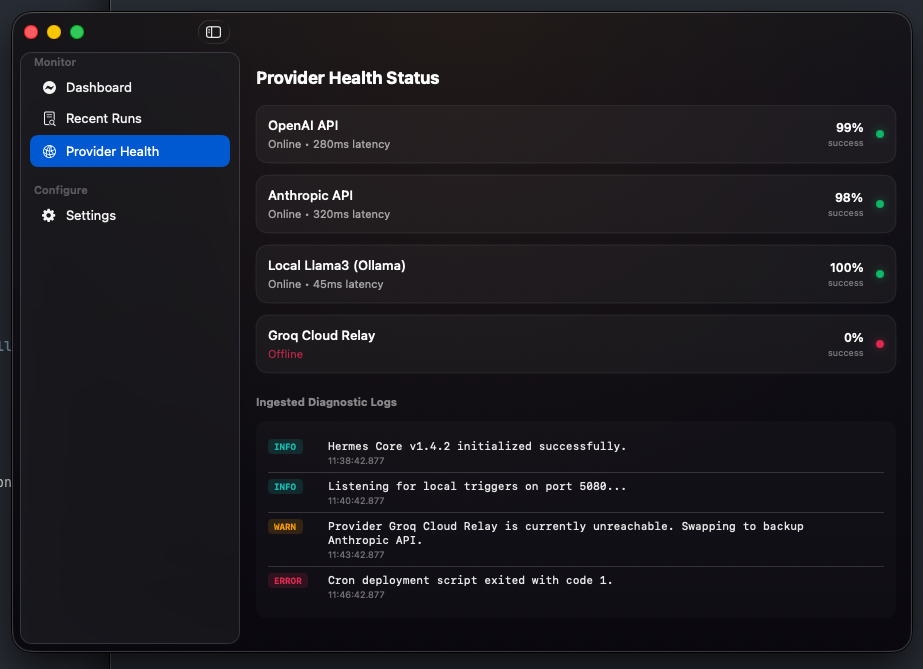
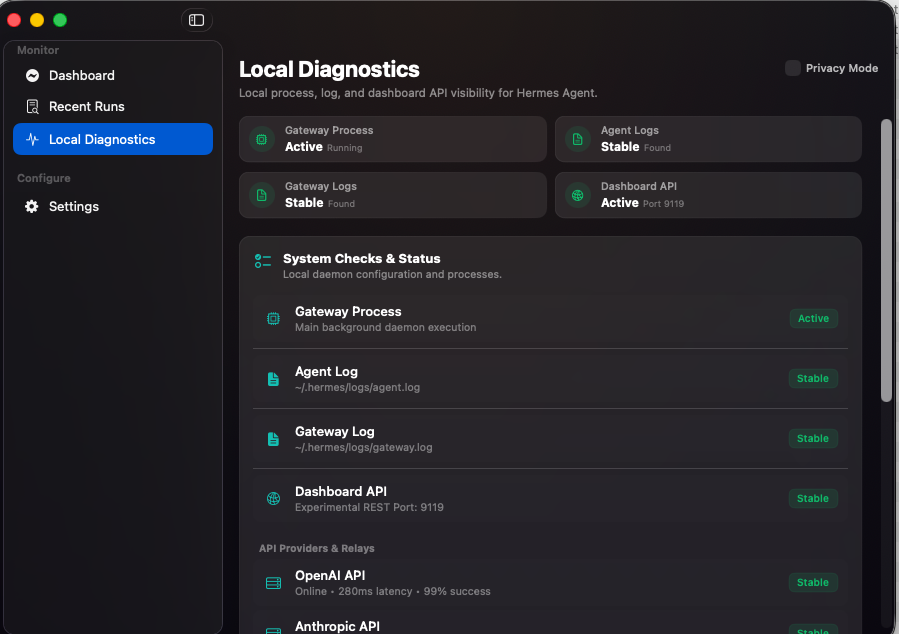
chore: verify diagnostics polish and smoke checks

diff --git a/docs/visual-parity.md b/docs/visual-parity.md
@@ -166,3 +166,12 @@ These should be used to guide the next visual polish batch before replacing READ
 *   **Offline Telemetry Fallbacks:** In Mock Mode, since `HermesStatus` lacks system daemon values, we automatically fallback to active states to ensure mock representations look fully alive and functional.
 *   **Manual Screen Capturing:** To complete visual check-pointing, actual runtime screenshots of this updated screen should be manually recaptured and compared.
 
+---
+
+## Batch 2 Runtime Screenshot Captured (June 2, 2026)
+Following the implementation of the Batch 2 Diagnostics UI Polish, a fresh actual runtime screenshot of the **Local Diagnostics** dashboard has been captured and saved to:
+[runtime-local-diagnostics.png](file:///Users/dnguyen/Documents/Projects/solaris/docs/screenshots/runtime-local-diagnostics.png)
+
+This updated screenshot captures the high-fidelity glassmorphic container layout, the monospace log console with severity badges, and the Privacy Mode redactions in action.
+
+